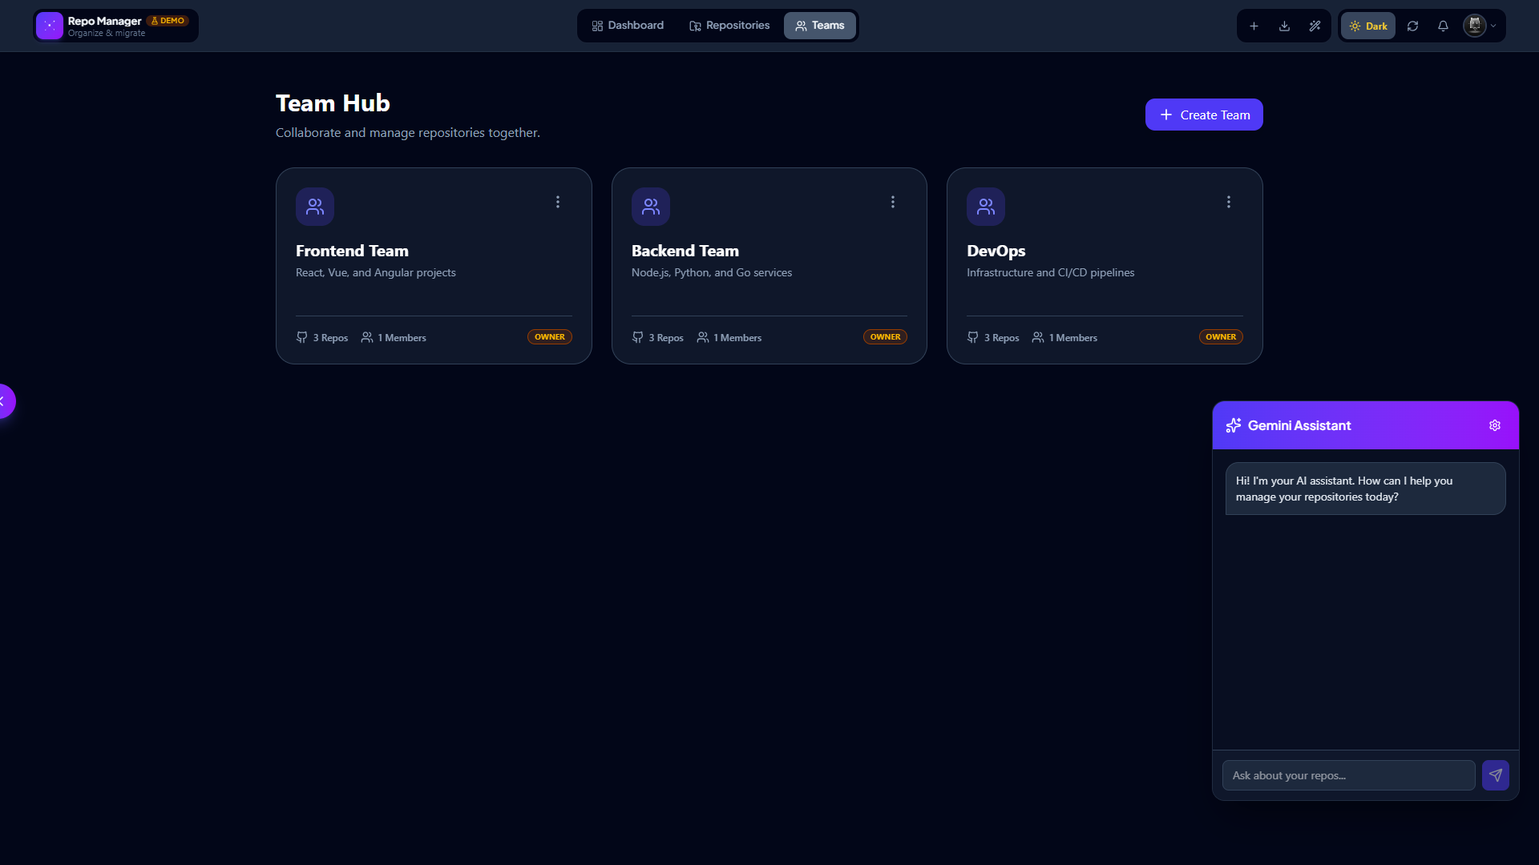
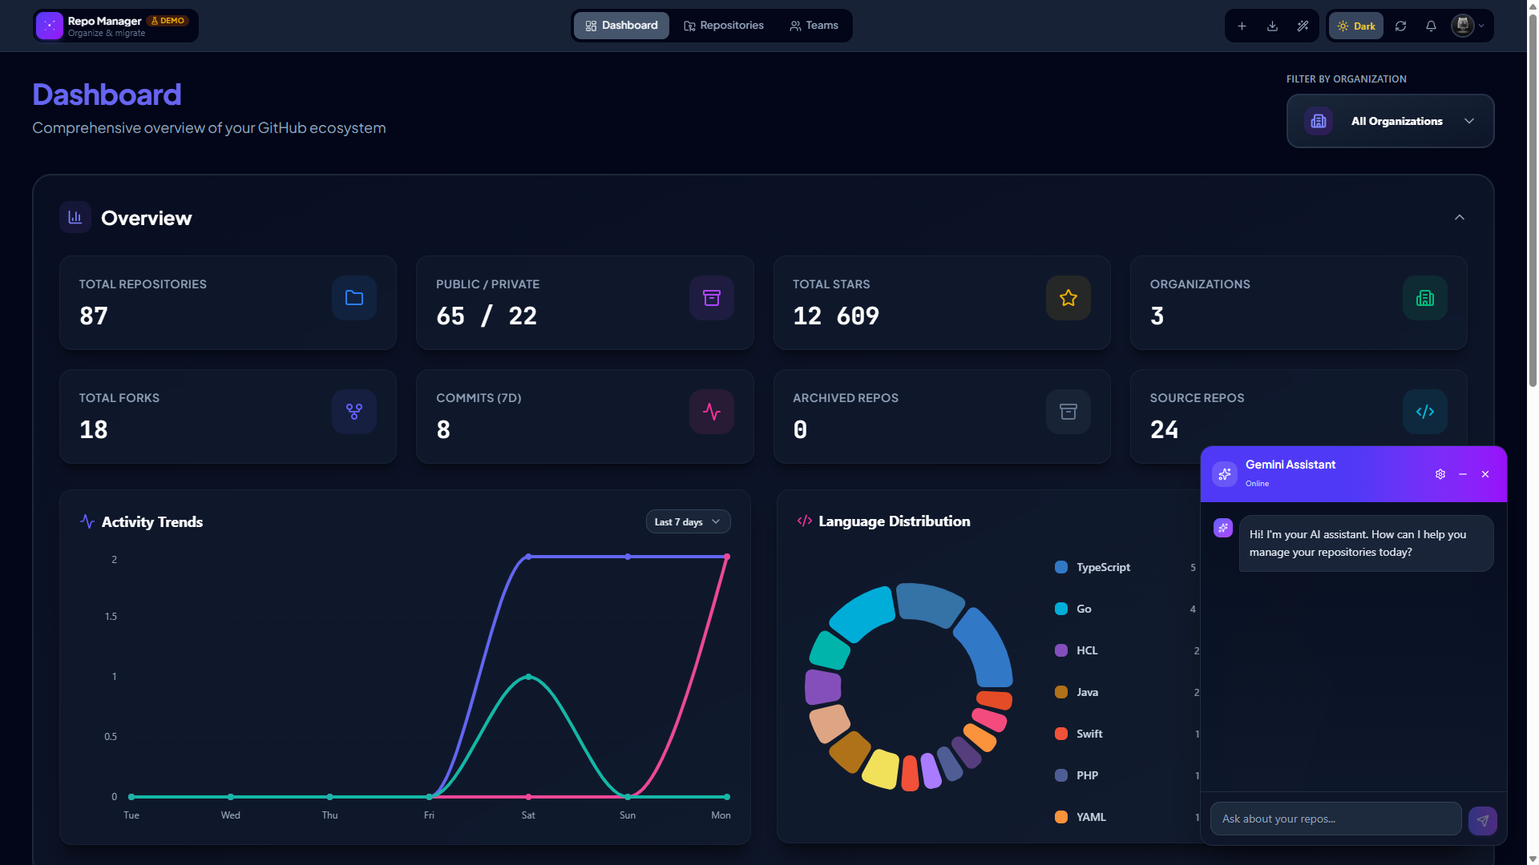
feat(ui): redesign AI Assistant with elegant auto-hide and polished UX
- Pill button with label "AI Assistant" and glow effect, shrinks to
  compact dot after 5s idle, reappears on scroll
- Framer Motion spring animations for open/close/morph transitions
- Chat header with avatar icon, online/thinking status, and
  settings/minimize/close controls
- AI avatar badges on assistant messages
- Typing indicator with bouncing dots instead of spinner
- Minimize mode collapses to header-only bar
- Gradient send button with active:scale feedback
- Subtle background gradient in message area

diff --git a/src/components/AIAssistant.jsx b/src/components/AIAssistant.jsx
@@ -1,11 +1,13 @@
 import React, { useState, useRef, useEffect } from 'react'
-import { MessageSquare, X, Send, Sparkles, Loader2, Settings, Key } from 'lucide-react'
+import { X, Send, Sparkles, Loader2, Settings, Key, Minus } from 'lucide-react'
 import { Card } from './ui/Card'
 import ReactMarkdown from 'react-markdown'
 import { SettingsModal } from './SettingsModal'
+import { motion, AnimatePresence } from 'framer-motion'
 
 export function AIAssistant({ askAI, user, checkAIStatus }) {
     const [isOpen, setIsOpen] = useState(false)
+    const [isMinimized, setIsMinimized] = useState(false)
     const [messages, setMessages] = useState([
         { role: 'assistant', text: 'Hi! I\'m your AI assistant. How can I help you manage your repositories today?' }
     ])
@@ -15,10 +17,8 @@ export function AIAssistant({ askAI, user, checkAIStatus }) {
     const [isConfigured, setIsConfigured] = useState(true)
     const [showSettings, setShowSettings] = useState(false)
     const [isIdle, setIsIdle] = useState(false)
-    const hideTimerRef = useRef(null)
-    const scrollTimerRef = useRef(null)
+    const idleTimerRef = useRef(null)
 
-    // Check configuration on mount and when isOpen changes
     useEffect(() => {
         if (isOpen) {
             const checkConfig = async () => {
@@ -34,50 +34,36 @@ export function AIAssistant({ askAI, user, checkAIStatus }) {
     }, [isOpen, checkAIStatus])
 
     const scrollToBottom = () => {
-        messagesEndRef.current?.scrollIntoView({ behavior: "smooth" })
+        messagesEndRef.current?.scrollIntoView({ behavior: 'smooth' })
     }
 
     useEffect(() => {
         scrollToBottom()
     }, [messages, isOpen])
 
-    // Autohide: fade button after inactivity, show on scroll/hover near corner
+    // Auto-hide: shrink to a slim pill after 5s of inactivity, reappear on hover/scroll
     useEffect(() => {
         if (isOpen) {
             setIsIdle(false)
             return
         }
 
-        const startIdleTimer = () => {
-            clearTimeout(hideTimerRef.current)
-            hideTimerRef.current = setTimeout(() => setIsIdle(true), 4000)
+        const startIdle = () => {
+            clearTimeout(idleTimerRef.current)
+            idleTimerRef.current = setTimeout(() => setIsIdle(true), 5000)
         }
 
-        const handleScroll = () => {
+        const wake = () => {
             setIsIdle(false)
-            clearTimeout(scrollTimerRef.current)
-            scrollTimerRef.current = setTimeout(startIdleTimer, 1500)
+            startIdle()
         }
 
-        const handleMouseMove = (e) => {
-            const nearBottomRight =
-                e.clientX > window.innerWidth - 120 &&
-                e.clientY > window.innerHeight - 120
-            if (nearBottomRight) {
-                setIsIdle(false)
-                startIdleTimer()
-            }
-        }
-
-        startIdleTimer()
-        window.addEventListener('scroll', handleScroll, { passive: true })
-        window.addEventListener('mousemove', handleMouseMove, { passive: true })
+        startIdle()
+        window.addEventListener('scroll', wake, { passive: true })
 
         return () => {
-            clearTimeout(hideTimerRef.current)
-            clearTimeout(scrollTimerRef.current)
-            window.removeEventListener('scroll', handleScroll)
-            window.removeEventListener('mousemove', handleMouseMove)
+            clearTimeout(idleTimerRef.current)
+            window.removeEventListener('scroll', wake)
         }
     }, [isOpen])
 
@@ -107,119 +93,190 @@ export function AIAssistant({ askAI, user, checkAIStatus }) {
 
     return (
         <>
-            {/* Floating Button */}
-            <button
-                onClick={() => setIsOpen(!isOpen)}
-                onMouseEnter={() => { setIsIdle(false); clearTimeout(hideTimerRef.current) }}
-                className={`fixed bottom-20 xl:bottom-6 right-3 sm:right-6 p-3 bg-gradient-to-r from-indigo-600 to-purple-600 hover:from-indigo-500 hover:to-purple-500 text-white rounded-full shadow-lg shadow-indigo-500/20 dark:shadow-indigo-500/30 transition-all duration-500 transform hover:scale-110 z-40 ds-btn-shimmer ${
-                    isIdle && !isOpen ? 'opacity-0 pointer-events-none' : 'opacity-100'
-                }`}
-                aria-label={isOpen ? 'Close AI Assistant' : 'Open AI Assistant'}
-            >
-                {isOpen ? <X size={20} /> : <Sparkles size={20} />}
-            </button>
+            {/* Floating Button - transitions between full pill and slim dot */}
+            <AnimatePresence>
+                {!isOpen && (
+                    <motion.button
+                        initial={{ scale: 0.8, opacity: 0 }}
+                        animate={{ scale: 1, opacity: 1 }}
+                        exit={{ scale: 0.8, opacity: 0 }}
+                        transition={{ type: 'spring', stiffness: 400, damping: 25 }}
+                        onClick={() => { setIsOpen(true); setIsIdle(false) }}
+                        onMouseEnter={() => setIsIdle(false)}
+                        className="fixed bottom-20 xl:bottom-6 right-3 sm:right-6 z-40 group"
+                        aria-label="Open AI Assistant"
+                    >
+                        <div className="relative">
+                            {/* Glow ring */}
+                            <span className={`absolute inset-0 rounded-2xl bg-gradient-to-r from-indigo-500 to-purple-500 blur-md transition-opacity duration-500 ${
+                                isIdle ? 'opacity-0' : 'opacity-20 group-hover:opacity-40'
+                            }`} />
+
+                            {/* Button body - morphs between pill and dot */}
+                            <div className={`relative flex items-center bg-gradient-to-r from-indigo-600 to-purple-600 hover:from-indigo-500 hover:to-purple-500 text-white shadow-lg shadow-indigo-500/25 dark:shadow-indigo-500/40 transition-all duration-500 ease-in-out transform hover:scale-105 hover:-translate-y-0.5 ${
+                                isIdle
+                                    ? 'gap-0 px-3 py-3 rounded-full opacity-60 hover:opacity-100'
+                                    : 'gap-2.5 px-4 py-3 rounded-2xl opacity-100'
+                            }`}>
+                                <Sparkles size={isIdle ? 16 : 18} className="shrink-0 transition-all duration-500" />
+                                <span className={`text-sm font-medium whitespace-nowrap transition-all duration-500 overflow-hidden ${
+                                    isIdle ? 'w-0 opacity-0' : 'w-auto opacity-100 hidden sm:inline'
+                                }`}>
+                                    AI Assistant
+                                </span>
+                            </div>
+                        </div>
+                    </motion.button>
+                )}
+            </AnimatePresence>
 
             {/* Chat Window */}
-            {isOpen && (
-                <Card className="fixed bottom-32 xl:bottom-20 right-3 sm:right-6 w-[calc(100vw-2rem)] sm:w-80 md:w-96 h-[60vh] xl:h-[500px] flex flex-col shadow-2xl dark:shadow-black/50 z-[45] border border-slate-200/60 dark:border-slate-700/50 bg-white/95 dark:bg-slate-900/95 backdrop-blur-xl overflow-hidden ds-animate-scale-in rounded-2xl">
-                    {/* Header */}
-                    <div className="p-4 bg-gradient-to-r from-indigo-600 to-purple-600 text-white flex items-center justify-between">
-                        <div className="flex items-center gap-2">
-                            <Sparkles size={20} />
-                            <h3 className="font-semibold ds-font-display">Gemini Assistant</h3>
-                        </div>
-                        <div className="flex items-center gap-1">
-                            <button
-                                onClick={() => setShowSettings(true)}
-                                className="p-1.5 hover:bg-white/20 rounded-lg transition-colors"
-                                title="AI Settings"
+            <AnimatePresence>
+                {isOpen && (
+                    <motion.div
+                        initial={{ opacity: 0, y: 20, scale: 0.95 }}
+                        animate={{ opacity: 1, y: 0, scale: 1 }}
+                        exit={{ opacity: 0, y: 20, scale: 0.95 }}
+                        transition={{ type: 'spring', stiffness: 400, damping: 30 }}
+                        className="fixed bottom-20 xl:bottom-6 right-3 sm:right-6 z-[45]"
+                    >
+                        <Card className={`w-[calc(100vw-2rem)] sm:w-80 md:w-96 flex flex-col shadow-2xl shadow-indigo-500/10 dark:shadow-black/50 border border-slate-200/60 dark:border-slate-700/50 bg-white/95 dark:bg-slate-900/95 backdrop-blur-xl overflow-hidden rounded-2xl transition-all duration-300 ${
+                            isMinimized ? '' : 'h-[60vh] xl:h-[500px]'
+                        }`}>
+                            {/* Header */}
+                            <div
+                                className="p-3.5 bg-gradient-to-r from-indigo-600 via-indigo-600 to-purple-600 text-white flex items-center justify-between shrink-0 cursor-pointer select-none"
+                                onClick={() => isMinimized && setIsMinimized(false)}
                             >
-                                <Settings size={16} />
-                            </button>
-                            <button
-                                onClick={() => setIsOpen(false)}
-                                className="p-1.5 hover:bg-white/20 rounded-lg transition-colors"
-                                title="Close assistant"
-                            >
-                                <X size={16} />
-                            </button>
-                        </div>
-                    </div>
-
-                    {!isConfigured ? (
-                        <div className="flex-1 flex flex-col items-center justify-center p-6 text-center space-y-4 bg-slate-50 dark:bg-slate-950/50">
-                            <div className="w-16 h-16 bg-indigo-100 dark:bg-indigo-900/30 rounded-full flex items-center justify-center mb-2">
-                                <Key className="w-8 h-8 text-indigo-600 dark:text-indigo-400" />
-                            </div>
-                            <h4 className="text-lg font-semibold text-slate-900 dark:text-white">
-                                Setup Required
-                            </h4>
-                            <p className="text-sm text-slate-500 dark:text-slate-400 max-w-[240px]">
-                                To use the AI Assistant, you need to configure your Gemini API key.
-                            </p>
-                            <button
-                                onClick={() => setShowSettings(true)}
-                                className="px-4 py-2 bg-indigo-600 hover:bg-indigo-700 text-white text-sm font-medium rounded-xl transition-colors shadow-sm shadow-indigo-500/20"
-                            >
-                                Configure API Key
-                            </button>
-                        </div>
-                    ) : (
-                        <>
-                            {/* Messages */}
-                            <div className="flex-1 overflow-y-auto p-4 space-y-4 bg-slate-50 dark:bg-slate-950/50">
-                                {messages.map((msg, idx) => (
-                                    <div
-                                        key={idx}
-                                        className={`flex ${msg.role === 'user' ? 'justify-end' : 'justify-start'}`}
-                                    >
-                                        <div
-                                            className={`max-w-[85%] p-3 rounded-2xl text-sm ${msg.role === 'user'
-                                                ? 'bg-indigo-600 text-white rounded-br-none'
-                                                : 'bg-white dark:bg-slate-800 text-slate-800 dark:text-slate-200 border border-slate-200 dark:border-slate-700 rounded-bl-none shadow-sm prose prose-sm dark:prose-invert max-w-none'
-                                                }`}
-                                        >
-                                            {msg.role === 'assistant' ? (
-                                                <ReactMarkdown>{msg.text}</ReactMarkdown>
-                                            ) : (
-                                                msg.text
-                                            )}
-                                        </div>
+                                <div className="flex items-center gap-2.5">
+                                    <div className="w-8 h-8 bg-white/15 rounded-xl flex items-center justify-center backdrop-blur-sm">
+                                        <Sparkles size={16} />
                                     </div>
-                                ))}
-                                {isLoading && (
-                                    <div className="flex justify-start">
-                                        <div className="bg-white dark:bg-slate-800 p-3 rounded-2xl rounded-bl-none border border-slate-200 dark:border-slate-700 shadow-sm">
-                                            <Loader2 className="w-5 h-5 animate-spin text-indigo-500" />
-                                        </div>
+                                    <div>
+                                        <h3 className="font-semibold text-sm ds-font-display leading-tight">Gemini Assistant</h3>
+                                        <span className="text-[10px] text-indigo-200 leading-tight">
+                                            {isLoading ? 'Thinking...' : 'Online'}
+                                        </span>
                                     </div>
-                                )}
-                                <div ref={messagesEndRef} />
-                            </div>
-
-                            {/* Input */}
-                            <form onSubmit={handleSubmit} className="p-3 border-t border-slate-200 dark:border-slate-700 bg-white dark:bg-slate-900">
-                                <div className="flex gap-2">
-                                    <input
-                                        type="text"
-                                        value={input}
-                                        onChange={(e) => setInput(e.target.value)}
-                                        placeholder="Ask about your repos..."
-                                        className="flex-1 px-3 py-2 rounded-lg border border-slate-200 dark:border-slate-700 bg-slate-50 dark:bg-slate-800 text-slate-900 dark:text-white text-sm focus:outline-none focus:ring-2 focus:ring-indigo-500"
-                                    />
+                                </div>
+                                <div className="flex items-center gap-0.5">
                                     <button
-                                        type="submit"
-                                        disabled={isLoading || !input.trim()}
-                                        className="p-2 bg-indigo-600 text-white rounded-lg hover:bg-indigo-700 disabled:opacity-50 disabled:cursor-not-allowed transition-colors"
+                                        onClick={(e) => { e.stopPropagation(); setShowSettings(true) }}
+                                        className="p-1.5 hover:bg-white/15 rounded-lg transition-colors"
+                                        title="AI Settings"
                                     >
-                                        <Send size={18} />
+                                        <Settings size={14} />
+                                    </button>
+                                    <button
+                                        onClick={(e) => { e.stopPropagation(); setIsMinimized(!isMinimized) }}
+                                        className="p-1.5 hover:bg-white/15 rounded-lg transition-colors"
+                                        title={isMinimized ? 'Expand' : 'Minimize'}
+                                    >
+                                        <Minus size={14} />
+                                    </button>
+                                    <button
+                                        onClick={(e) => { e.stopPropagation(); setIsOpen(false) }}
+                                        className="p-1.5 hover:bg-white/15 rounded-lg transition-colors"
+                                        title="Close assistant"
+                                    >
+                                        <X size={14} />
                                     </button>
                                 </div>
-                            </form>
-                        </>
-                    )}
-                </Card>
-            )}
+                            </div>
+
+                            {/* Body - hidden when minimized */}
+                            {!isMinimized && (
+                                <>
+                                    {!isConfigured ? (
+                                        <div className="flex-1 flex flex-col items-center justify-center p-6 text-center space-y-4 bg-slate-50 dark:bg-slate-950/50">
+                                            <div className="w-16 h-16 bg-indigo-100 dark:bg-indigo-900/30 rounded-full flex items-center justify-center mb-2">
+                                                <Key className="w-8 h-8 text-indigo-600 dark:text-indigo-400" />
+                                            </div>
+                                            <h4 className="text-lg font-semibold text-slate-900 dark:text-white">
+                                                Setup Required
+                                            </h4>
+                                            <p className="text-sm text-slate-500 dark:text-slate-400 max-w-[240px]">
+                                                To use the AI Assistant, you need to configure your Gemini API key.
+                                            </p>
+                                            <button
+                                                onClick={() => setShowSettings(true)}
+                                                className="px-4 py-2 bg-indigo-600 hover:bg-indigo-700 text-white text-sm font-medium rounded-xl transition-colors shadow-sm shadow-indigo-500/20"
+                                            >
+                                                Configure API Key
+                                            </button>
+                                        </div>
+                                    ) : (
+                                        <>
+                                            {/* Messages */}
+                                            <div className="flex-1 overflow-y-auto p-4 space-y-3 bg-gradient-to-b from-slate-50 to-white dark:from-slate-950/50 dark:to-slate-900/50">
+                                                {messages.map((msg, idx) => (
+                                                    <div
+                                                        key={idx}
+                                                        className={`flex ${msg.role === 'user' ? 'justify-end' : 'justify-start'}`}
+                                                    >
+                                                        {msg.role === 'assistant' && (
+                                                            <div className="w-6 h-6 rounded-lg bg-gradient-to-br from-indigo-500 to-purple-500 flex items-center justify-center shrink-0 mt-1 mr-2">
+                                                                <Sparkles size={12} className="text-white" />
+                                                            </div>
+                                                        )}
+                                                        <div
+                                                            className={`max-w-[80%] p-3 text-sm leading-relaxed ${msg.role === 'user'
+                                                                ? 'bg-gradient-to-r from-indigo-600 to-indigo-500 text-white rounded-2xl rounded-br-sm shadow-sm shadow-indigo-500/20'
+                                                                : 'bg-white dark:bg-slate-800/80 text-slate-700 dark:text-slate-200 border border-slate-200/80 dark:border-slate-700/50 rounded-2xl rounded-bl-sm shadow-sm prose prose-sm dark:prose-invert max-w-none'
+                                                            }`}
+                                                        >
+                                                            {msg.role === 'assistant' ? (
+                                                                <ReactMarkdown>{msg.text}</ReactMarkdown>
+                                                            ) : (
+                                                                msg.text
+                                                            )}
+                                                        </div>
+                                                    </div>
+                                                ))}
+                                                {isLoading && (
+                                                    <div className="flex justify-start">
+                                                        <div className="w-6 h-6 rounded-lg bg-gradient-to-br from-indigo-500 to-purple-500 flex items-center justify-center shrink-0 mt-1 mr-2">
+                                                            <Sparkles size={12} className="text-white" />
+                                                        </div>
+                                                        <div className="bg-white dark:bg-slate-800/80 p-3 rounded-2xl rounded-bl-sm border border-slate-200/80 dark:border-slate-700/50 shadow-sm">
+                                                            <div className="flex items-center gap-1.5">
+                                                                <span className="w-2 h-2 bg-indigo-400 rounded-full animate-bounce [animation-delay:-0.3s]" />
+                                                                <span className="w-2 h-2 bg-indigo-400 rounded-full animate-bounce [animation-delay:-0.15s]" />
+                                                                <span className="w-2 h-2 bg-indigo-400 rounded-full animate-bounce" />
+                                                            </div>
+                                                        </div>
+                                                    </div>
+                                                )}
+                                                <div ref={messagesEndRef} />
+                                            </div>
+
+                                            {/* Input */}
+                                            <form onSubmit={handleSubmit} className="p-3 border-t border-slate-200/80 dark:border-slate-700/50 bg-white/80 dark:bg-slate-900/80 backdrop-blur-sm shrink-0">
+                                                <div className="flex gap-2 items-end">
+                                                    <input
+                                                        type="text"
+                                                        value={input}
+                                                        onChange={(e) => setInput(e.target.value)}
+                                                        placeholder="Ask about your repos..."
+                                                        className="flex-1 px-3.5 py-2.5 rounded-xl border border-slate-200 dark:border-slate-700 bg-slate-50 dark:bg-slate-800 text-slate-900 dark:text-white text-sm focus:outline-none focus:ring-2 focus:ring-indigo-500/50 focus:border-indigo-400 transition-all placeholder:text-slate-400"
+                                                    />
+                                                    <button
+                                                        type="submit"
+                                                        disabled={isLoading || !input.trim()}
+                                                        className="p-2.5 bg-gradient-to-r from-indigo-600 to-purple-600 text-white rounded-xl hover:from-indigo-500 hover:to-purple-500 disabled:opacity-40 disabled:cursor-not-allowed transition-all shadow-sm shadow-indigo-500/20 hover:shadow-md hover:shadow-indigo-500/30 active:scale-95"
+                                                    >
+                                                        <Send size={16} />
+                                                    </button>
+                                                </div>
+                                            </form>
+                                        </>
+                                    )}
+                                </>
+                            )}
+                        </Card>
+                    </motion.div>
+                )}
+            </AnimatePresence>
 
             <SettingsModal
                 isOpen={showSettings}
